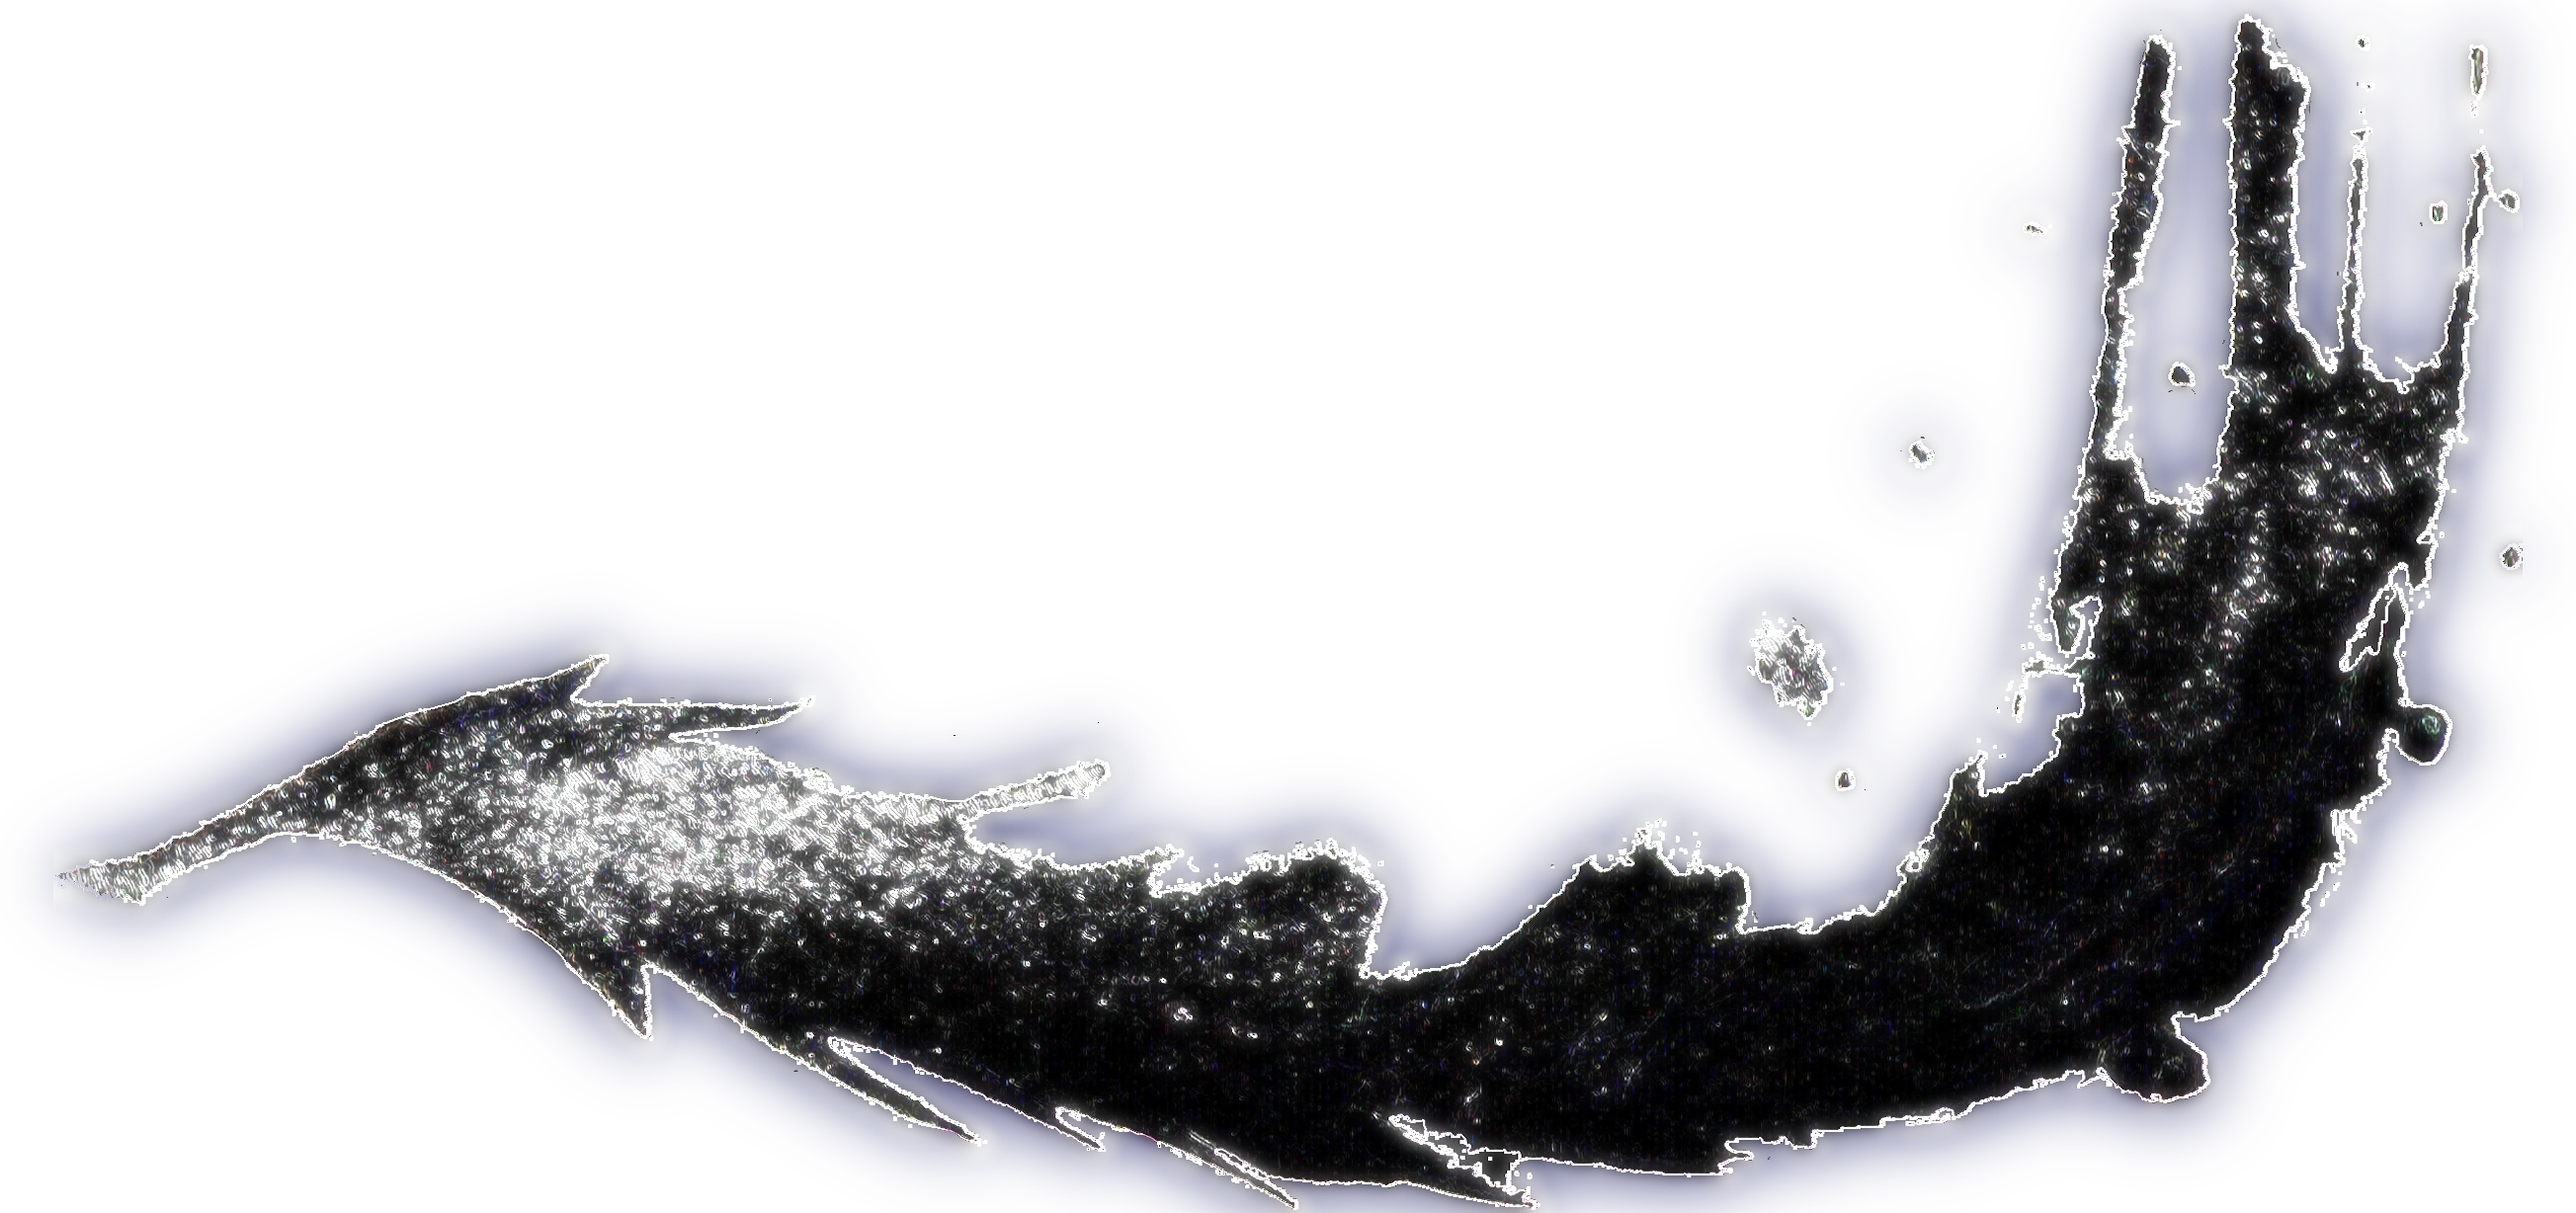
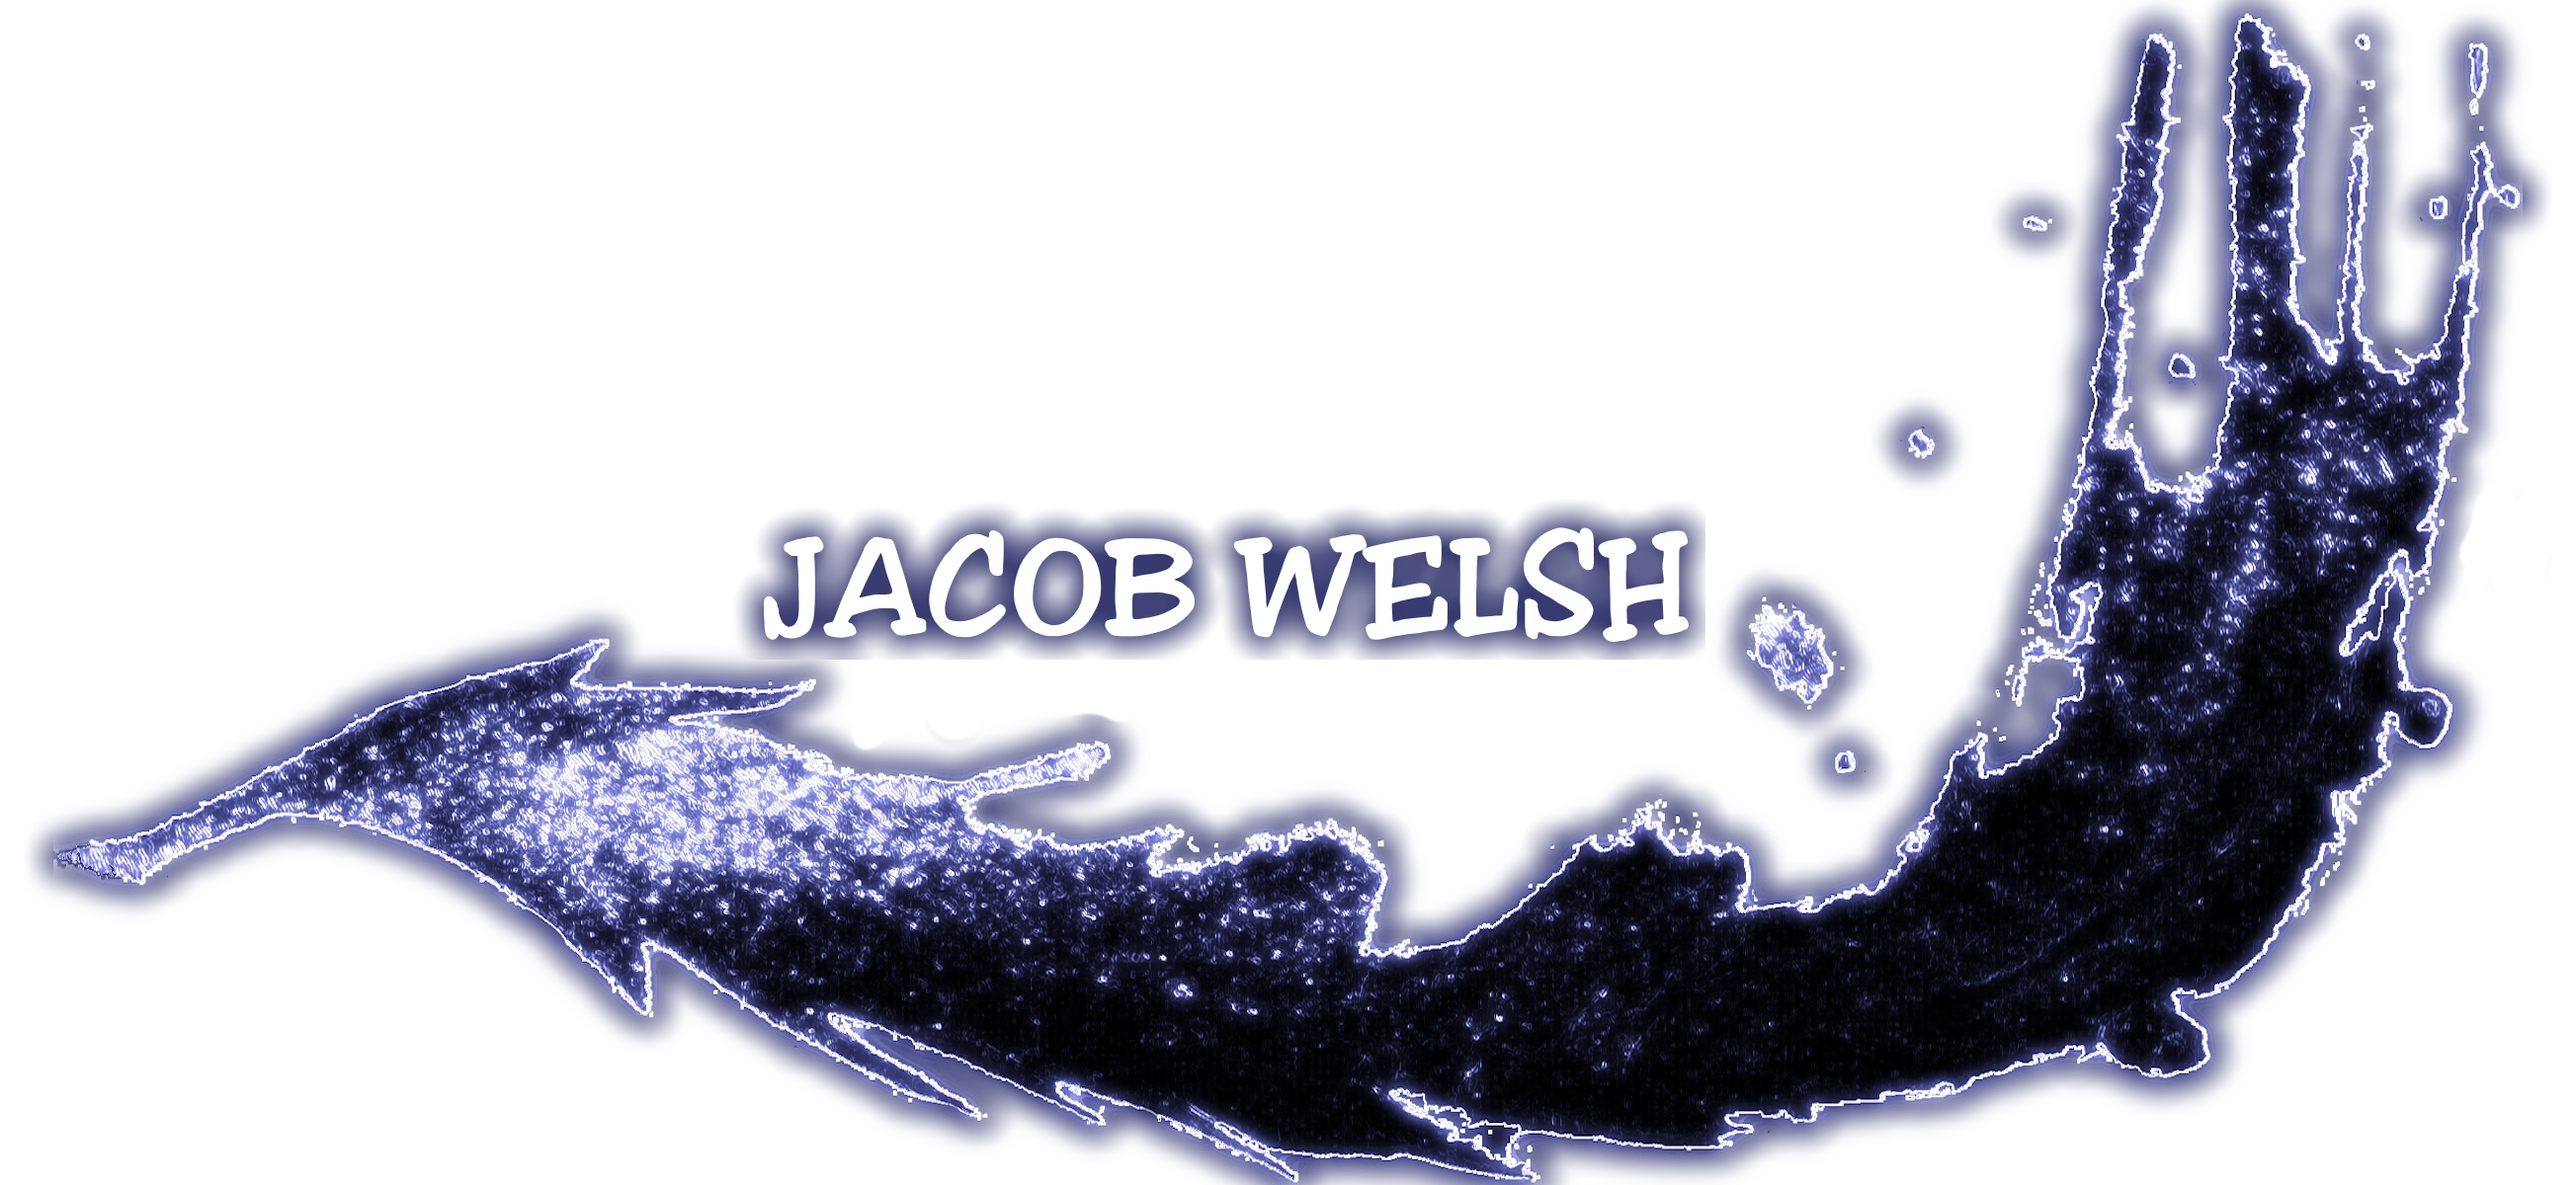
Create landing page as index.

Changed region(s): [[0.0, 0.0, 0.9942, 1.0], [0.8078, 0.6475, 0.8389, 0.7092]]

diff --git a/index.html b/index.html
@@ -9,40 +9,16 @@
     <link href="https://cdn.jsdelivr.net/npm/bootstrap@5.2.3/dist/css/bootstrap.min.css" rel="stylesheet" integrity="sha384-rbsA2VBKQhggwzxH7pPCaAqO46MgnOM80zW1RWuH61DGLwZJEdK2Kadq2F9CUG65" crossorigin="anonymous">
     <title>Jacob Thomas Welsh</title>
 </head>
-<body class="body-class">
-    <nav class="navbar navbar-expand-lg">
-        <div class="container-fluid">
-            <a class="navbar-brand logo-text" href="index.html">Jacob T Welsh</a>
-            <button class="navbar-toggler" type="button" data-bs-toggle="collapse" data-bs-target="#navbarSupportedContent" aria-controls="navbarSupportedContent" aria-expanded="false" aria-label="Toggle navigation">
-              <span class="navbar-toggler-icon"></span>
-            </button>
-            <div class="collapse navbar-collapse nav-right" id="navbarSupportedContent">
-              <ul class="navbar-nav me-auto mb-2 mb-lg-0">
-                <li class="nav-item">
-                    <a class="nav-link" aria-current="page" href="index.html">Home</a>
-                </li>
-                <li class="nav-item">
-                    <a class="nav-link" aria-current="page" href="Documentation/Jacob Welsh CV 17_5_2023.docx">Download CV</a>
-                </li>
-                <li class="nav-item">
-                    <a class="nav-link" aria-current="page" href="contact.html">Contact Me</a>
-                </li>
-                <li class="nav-item">
-                    <a class="nav-link" aria-current="page" href="projects.html">My Projects</a>
-                </li>
-            </div>
-        </div>
-    </nav>
+<body id="index-body">
     <div><img src="media/images/base-arm.webp" alt="Phoenix Feather Arm Tattoo" id="phoenixfeather"></div>
-    <footer>
-        <ul class="foot">
-            <li>©Jacob Welsh 2023</li>
-            <li>
-                <a href="https://www.linkedin.com/in/jacob-thomas-welsh/" target="_blank"><i class="fa-brands fa-linkedin"></i> Linkedin</a>
-                <a href="https://github.com/Welshy92" target="_blank"><i class="fa-brands fa-square-github"></i> Github</a>
-            </li>
+    <div><button id="enter-site"><a href="home.html">ENTER</a></button></div>
+    <div>
+        <ul id="index-nav">
+            <li><button class="index-button"><a href="" target="_blank"><i class="fa-brands fa-linkedin"></i> Linkedin</a></button></li>
+            <li><button class="index-button"><a href="" target="_blank"><i class="fa-brands fa-square-github"></i> Github</a></button></li>
+            <li><button class="index-button"><a href="" target="_blank"><i class="fa-brands fa-soundcloud"></i> SoundCloud</a></button></li>
         </ul>
-    </footer>
+    </div>
     <script src="https://cdn.jsdelivr.net/npm/bootstrap@5.2.3/dist/js/bootstrap.bundle.min.js" integrity="sha384-kenU1KFdBIe4zVF0s0G1M5b4hcpxyD9F7jL+jjXkk+Q2h455rYXK/7HAuoJl+0I4" crossorigin="anonymous"></script>
 </body>
 </html>

diff --git a/assets/css/style.css b/assets/css/style.css
@@ -11,6 +11,11 @@ font-family: 'Raleway', sans-serif; - Brand title*/
     color: #f0f8ff;
 }
 
+#index-body {
+    background-color: #2E3045;
+    color: #f0f8ff;
+}
+
 /* Navigation Styling */
 
 .navbar {
@@ -77,6 +82,53 @@ font-family: 'Raleway', sans-serif; - Brand title*/
     display: block;
     margin-left: auto;
     margin-right: auto;
-    max-width: 100%;
-    max-height: 65vh;
+    max-width: 100vw;
+    max-height: 75vh;
+}
+
+#enter-site {
+    margin: 2vh 40vw 1vh 40vw;
+    width: 20%;
+    height: 12.5vh;
+    font-size: 50px;
+    border-radius: 50px;
+    background-color: #f0f8ff;
+}
+
+#enter-site > a {
+    text-decoration: none;
+    font-family: 'Raleway', sans-serif;
+    color: #2E3045;
+    background-color: rgba(255, 255, 255, 0.0);
+    transition: color 0.5s;
+}
+
+#enter-site:hover > a {
+    color: #383C7B;
+    transition: color 0.5s;
+}
+
+#enter-site:hover {
+    background-color: rgb(197, 197, 197);
+    transition: background-color 0.5s;
+}
+
+#index-nav {
+    list-style: none;
+    display: flex;
+    justify-content: center;
+    padding-left: 0;
+}
+
+.index-button {
+    font-size: 30px;
+    margin: 0 20px 0 20px;
+    background: none;
+    border-radius: 12px;
+}
+
+.index-button > a {
+    text-decoration: none;
+    color: #f0f8ff;
+    font-family: 'Archivo', sans-serif;
 }

diff --git a/contact.html b/contact.html
@@ -19,7 +19,7 @@
             <div class="collapse navbar-collapse nav-right" id="navbarSupportedContent">
               <ul class="navbar-nav me-auto mb-2 mb-lg-0">
                 <li class="nav-item">
-                    <a class="nav-link" aria-current="page" href="index.html">Home</a>
+                    <a class="nav-link" aria-current="page" href="home.html">Home</a>
                 </li>
                 <li class="nav-item">
                     <a class="nav-link" aria-current="page" href="Documentation/Jacob Welsh CV 17_5_2023.docx">Download CV</a>

diff --git a/home.html b/home.html
@@ -33,7 +33,7 @@
             </div>
         </div>
     </nav>
-    <p>Below are my projects</p>
+    <div></div>
     <footer>
         <ul class="foot">
             <li>©Jacob Welsh 2023</li>
